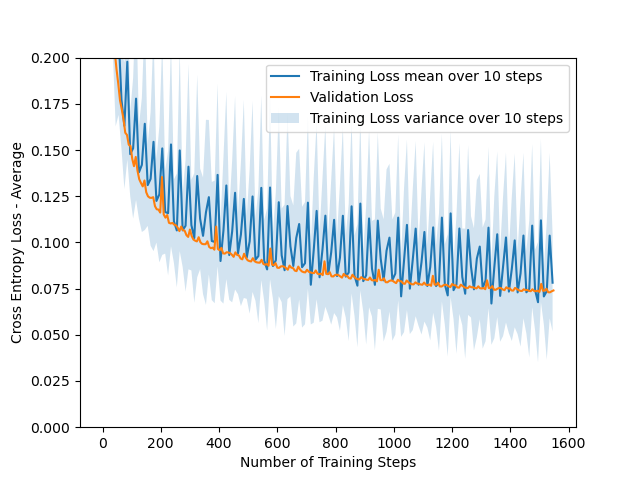
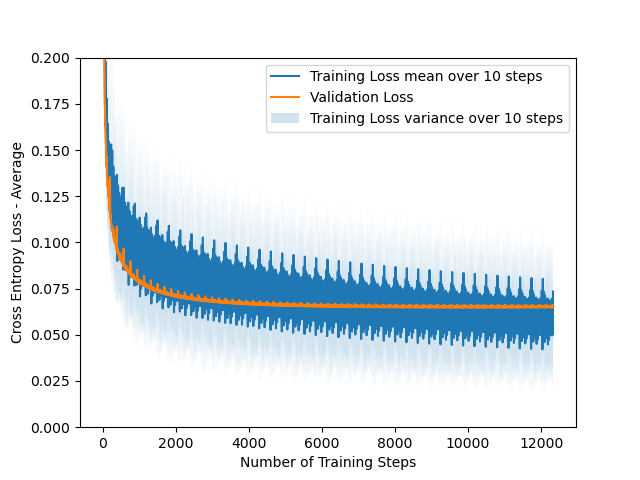
better

diff --git a/assignment1/trainer.py b/assignment1/trainer.py
@@ -79,8 +79,8 @@ class BaseTrainer:
 
         for epoch in tqdm(range(num_epochs)):
             if stop_signal>=10:
-                print(epoch)
-                break
+                print("breakbreak")
+                return train_history, val_history
             train_loader = utils.batch_loader(
                 self.X_train, self.Y_train, self.batch_size, shuffle=self.shuffle_dataset)
             for X_batch, Y_batch in iter(train_loader):
@@ -98,7 +98,7 @@ class BaseTrainer:
 
                     # TODO (Task 2d): Implement early stopping here.
                     # You can access the validation loss in val_history["loss"]
-                    if global_step>1 and val_loss<=train_history["loss"][global_step-1]:
+                    if global_step>1 and val_loss>=train_history["loss"][global_step-1]:
                         stop_signal +=1
                     else:
                         stop_signal = 0

diff --git a/assignment1/task3.py b/assignment1/task3.py
@@ -20,8 +20,8 @@ def calculate_accuracy(X: np.ndarray, targets: np.ndarray, model: SoftmaxModel) 
     y_hat = np.array(model.forward(X))
     y_predicted_position = np.argmax(y_hat,axis=1)
     y_position = np.argmax(targets,axis = 1)
-    for (y_p,y) in zip(y_predicted_position,y_position):
-        print("Predicted: ",y_p,"    Ground truth: ",y)
+    #for (y_p,y) in zip(y_predicted_position,y_position):
+    #    print("Predicted: ",y_p,"    Ground truth: ",y)
     accuracy = np.count_nonzero(y_position == y_predicted_position)/X.shape[0]
     return accuracy
 
@@ -133,7 +133,7 @@ if __name__ == "__main__":
 
     # Plotting of softmax weights (Task 4b)
     
-    plt.imsave("task4b_softmax_weight.png", weight, cmap="gray")
+    #plt.imsave("task4b_softmax_weight.png", weight, cmap="gray")
 
     # Plotting of accuracy for difference values of lambdas (task 4c)
     l2_lambdas = [1, .1, .01, .001]

diff --git a/assignment1/task2.py b/assignment1/task2.py
@@ -68,7 +68,7 @@ class LogisticTrainer(BaseTrainer):
 
 if __name__ == "__main__":
     # hyperparameters DO NOT CHANGE IF NOT SPECIFIED IN ASSIGNMENT TEXT
-    num_epochs = 50
+    num_epochs = 500
     learning_rate = 0.05
     batch_size = 128
     shuffle_dataset = False
